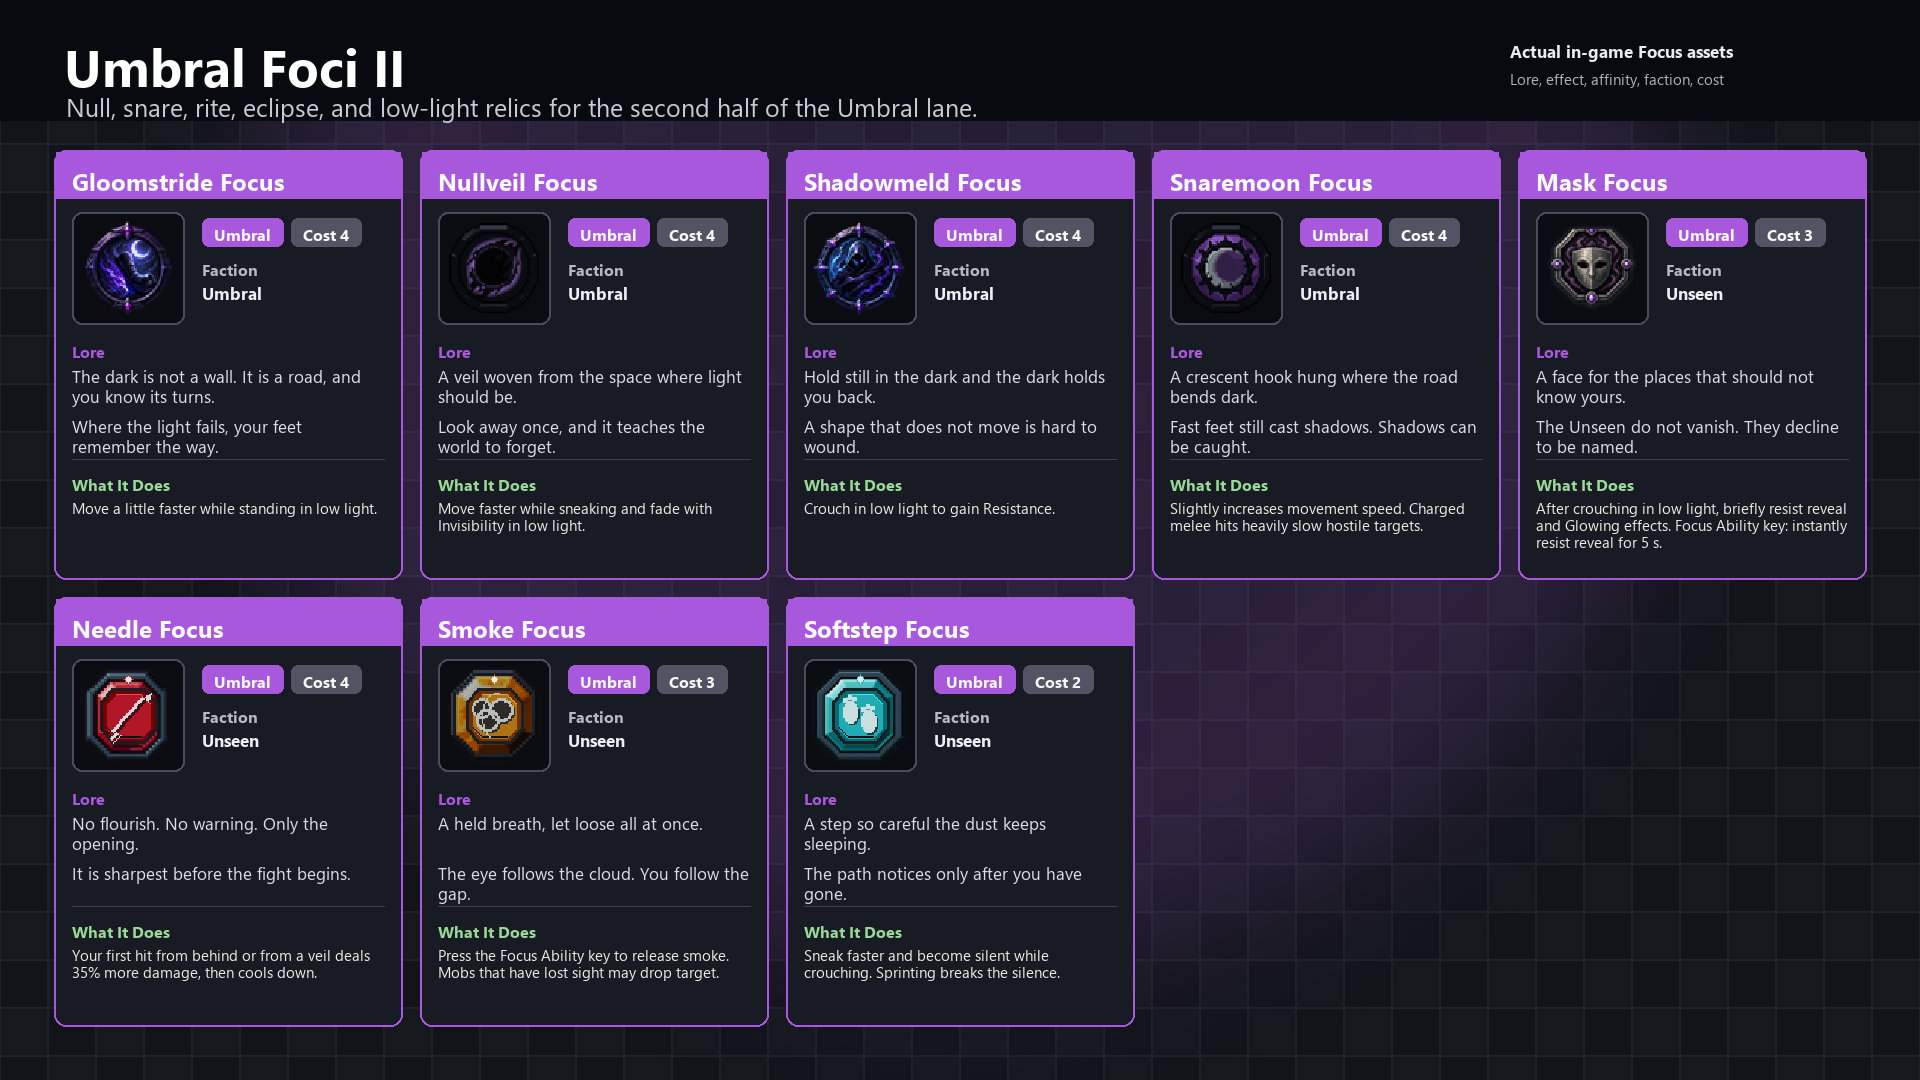
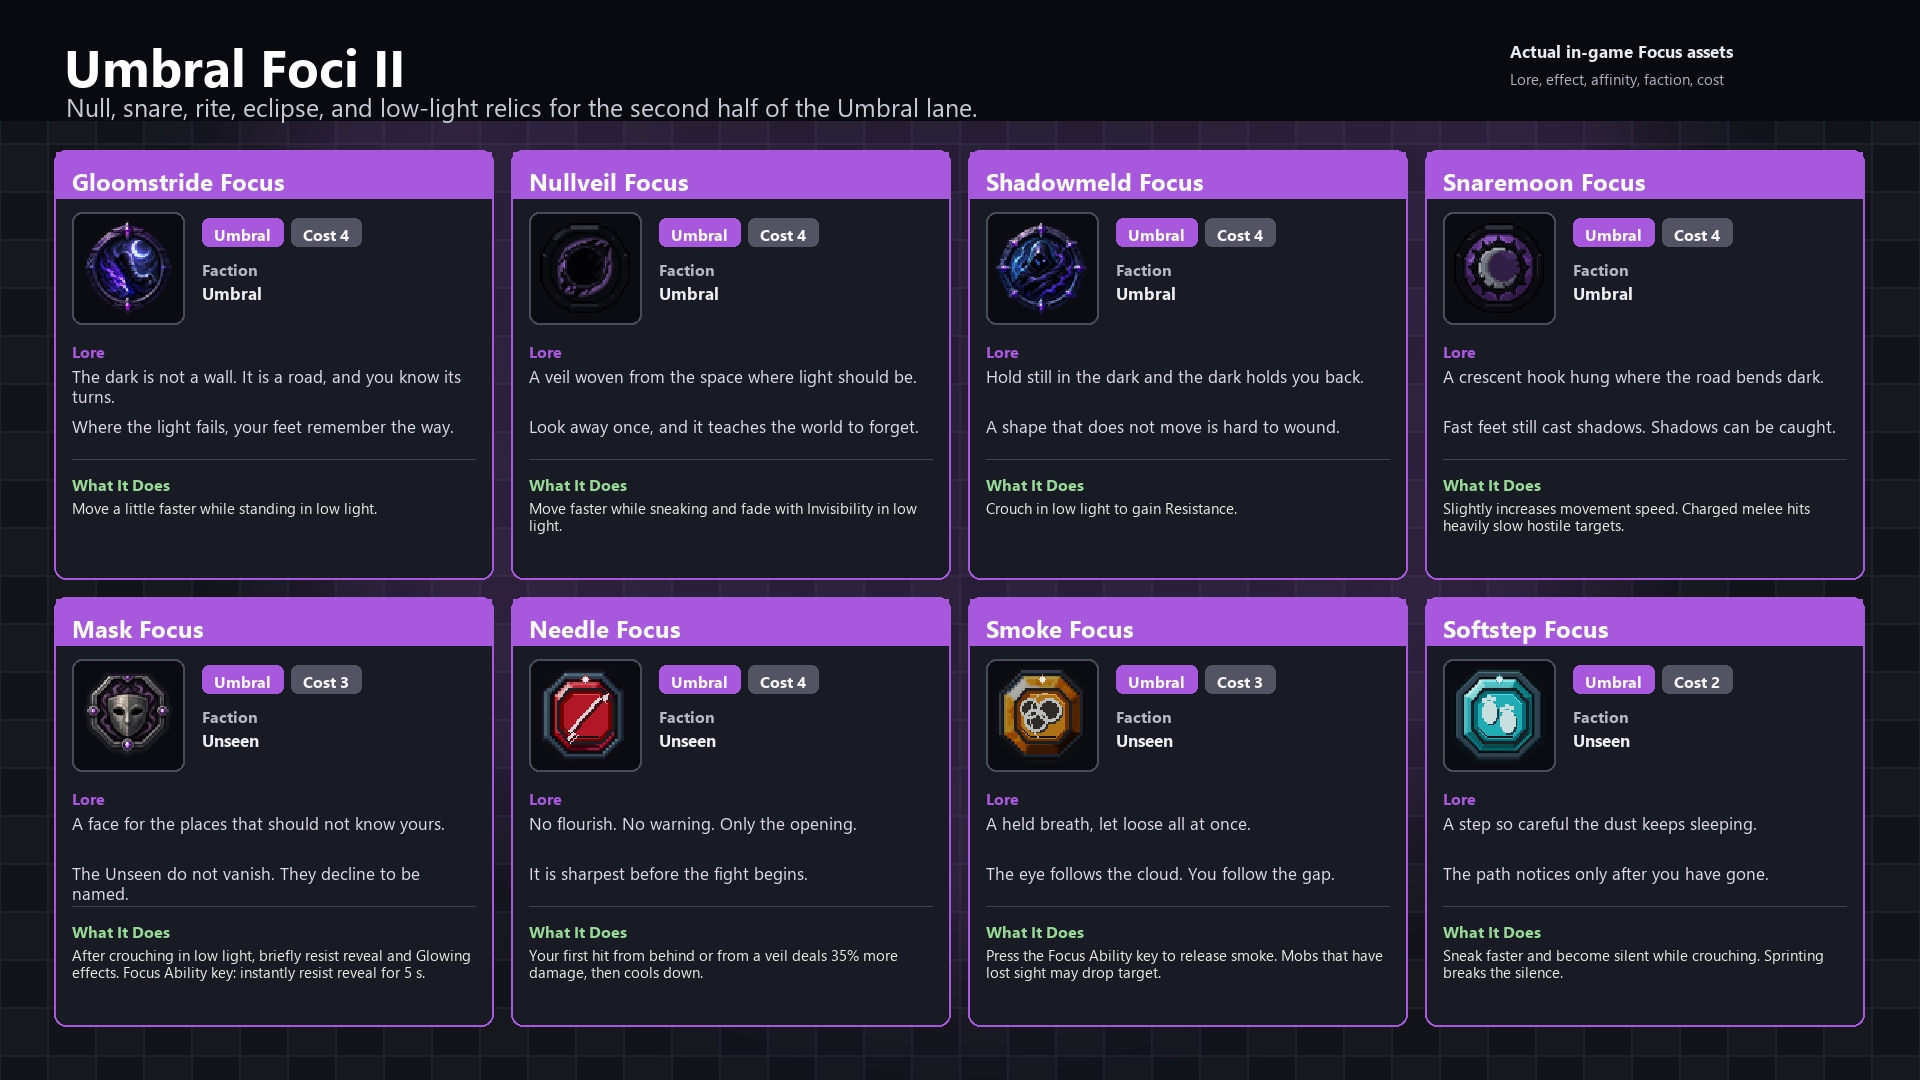
Fix gallery card fit

diff --git a/tools/generate_modrinth_gallery.py b/tools/generate_modrinth_gallery.py
@@ -129,6 +129,7 @@ def load_font(name: str, size: int) -> ImageFont.FreeTypeFont | ImageFont.ImageF
 FONT_TITLE = load_font("segoeuib.ttf", 52)
 FONT_SUBTITLE = load_font("segoeui.ttf", 25)
 FONT_CARD_TITLE = load_font("segoeuib.ttf", 24)
+FONT_ASSET_TITLE = load_font("segoeuib.ttf", 21)
 FONT_LABEL = load_font("segoeuib.ttf", 16)
 FONT_BODY = load_font("segoeui.ttf", 17)
 FONT_BODY_BOLD = load_font("segoeuib.ttf", 17)
@@ -136,6 +137,8 @@ FONT_SMALL = load_font("segoeui.ttf", 15)
 FONT_APEX_TITLE = load_font("segoeuib.ttf", 29)
 FONT_APEX_BODY = load_font("segoeui.ttf", 19)
 FONT_APEX_SMALL = load_font("segoeui.ttf", 16)
+
+MIN_FOCUS_CARD_HEIGHT = 360
 
 
 def clean_faction(faction: str) -> str:
@@ -259,6 +262,15 @@ def draw_text(draw: ImageDraw.ImageDraw, xy: tuple[int, int], text: str, font, f
 	return y
 
 
+def ellipsize(draw: ImageDraw.ImageDraw, text: str, font, max_width: int) -> str:
+	if draw.textlength(text, font=font) <= max_width:
+		return text
+	shortened = text
+	while shortened and draw.textlength(shortened + "...", font=font) > max_width:
+		shortened = shortened[:-1]
+	return shortened + "..." if shortened else "..."
+
+
 def make_background(accent: tuple[int, int, int]) -> Image.Image:
 	bg = Image.new("RGB", (WIDTH, HEIGHT), (13, 15, 21))
 	draw = ImageDraw.Draw(bg)
@@ -322,6 +334,16 @@ def draw_focus_card(canvas: Image.Image, focus: Focus, box: tuple[int, int, int,
 	draw_text(draw, (x0 + 18, effect_y + 24), focus.effect, FONT_SMALL, (232, 236, 224), x1 - x0 - 36, line_spacing=2, max_lines=3)
 
 
+def focus_panel_columns(count: int) -> int:
+	if count <= 5:
+		return max(count, 1)
+	if count <= 6:
+		return 3
+	if count <= 8:
+		return 4
+	return 5
+
+
 def panel_filename(title: str) -> str:
 	return "attuned-" + title.lower().replace(" ", "-").replace("/", "-") + ".png"
 
@@ -337,7 +359,7 @@ def render_panel(title: str, subtitle: str, foci: list[Focus]) -> Path:
 	draw.text((WIDTH - 410, 39), "Actual in-game Focus assets", font=FONT_BODY_BOLD, fill=(234, 235, 242))
 	draw.text((WIDTH - 410, 68), "Lore, effect, affinity, faction, cost", font=FONT_SMALL, fill=(174, 178, 190))
 
-	cols = 5
+	cols = focus_panel_columns(len(foci))
 	rows = math.ceil(len(foci) / cols)
 	margin_x = 54
 	gap_x = 18
@@ -345,6 +367,10 @@ def render_panel(title: str, subtitle: str, foci: list[Focus]) -> Path:
 	top = 150
 	card_w = (WIDTH - margin_x * 2 - gap_x * (cols - 1)) // cols
 	card_h = (HEIGHT - top - 54 - gap_y * (rows - 1)) // rows
+	if card_h < MIN_FOCUS_CARD_HEIGHT:
+		raise ValueError(
+			f"{title} would render {len(foci)} Foci with {card_h}px-tall cards; split the panel before generating."
+		)
 	for idx, focus in enumerate(foci):
 		col = idx % cols
 		row = idx // cols
@@ -401,16 +427,18 @@ def draw_gallery_asset_card(canvas: Image.Image, asset: GalleryAsset, box: tuple
 	x0, y0, x1, y1 = box
 	accent = (151, 217, 150) if asset.kind == "Item" else (105, 185, 235)
 	rounded_rectangle(draw, box, 12, (25, 27, 36, 235), outline=(*accent, 230), width=2)
-	draw.rectangle((x0 + 2, y0 + 2, x1 - 2, y0 + 48), fill=(*accent, 38))
-	draw.text((x0 + 18, y0 + 15), asset.name, font=FONT_CARD_TITLE, fill=(252, 252, 255))
+	draw.rectangle((x0 + 2, y0 + 2, x1 - 2, y0 + 42), fill=(*accent, 38))
+	title = ellipsize(draw, asset.name, FONT_ASSET_TITLE, x1 - x0 - 32)
+	draw.text((x0 + 16, y0 + 10), title, font=FONT_ASSET_TITLE, fill=(252, 252, 255))
 
-	icon_back = (x0 + 22, y0 + 72, x0 + 138, y0 + 188)
+	icon_back = (x0 + 18, y0 + 58, x0 + 106, y0 + 146)
 	rounded_rectangle(draw, icon_back, 10, (11, 12, 17, 255), outline=(73, 75, 89), width=2)
-	sprite = first_frame(asset.texture).resize((88, 88), Image.Resampling.NEAREST)
-	canvas.alpha_composite(sprite, (x0 + 36, y0 + 86))
+	sprite = first_frame(asset.texture).resize((72, 72), Image.Resampling.NEAREST)
+	canvas.alpha_composite(sprite, (x0 + 26, y0 + 66))
 
-	chip(draw, x0 + 156, y0 + 78, asset.kind, accent, text_fill=(16, 16, 18))
-	draw_text(draw, (x0 + 156, y0 + 122), asset.description, FONT_BODY, (226, 228, 236), x1 - x0 - 180, line_spacing=4, max_lines=4)
+	text_x = x0 + 124
+	chip(draw, text_x, y0 + 60, asset.kind, accent, text_fill=(16, 16, 18))
+	draw_text(draw, (text_x, y0 + 98), asset.description, FONT_SMALL, (226, 228, 236), x1 - text_x - 18, line_spacing=2, max_lines=2)
 
 
 def render_items_and_altars_panel(assets: list[GalleryAsset]) -> Path:
@@ -620,7 +648,8 @@ def main() -> None:
 
 	neutral = by_affinity["neutral"]
 	outputs.append(render_panel("Neutral Foci I", "Utility, exploration, farming, mining, and survival relics with no affinity lock.", neutral[:10]))
-	outputs.append(render_panel("Neutral Foci II", "Seafarers, Unseen, Verdant, travel, and mixed-build utility relics.", neutral[10:]))
+	outputs.append(render_panel("Neutral Foci II", "Wayfinding, offshore, revenant, and seafaring utility relics.", neutral[10:16]))
+	outputs.append(render_panel("Neutral Foci III", "Seafaring support, Unseen, and Verdant Choir utility relics.", neutral[16:]))
 	outputs.append(render_items_and_altars_panel(gallery_assets))
 
 	print("Generated Modrinth gallery panels:")

diff --git a/tools/verify_repository.py b/tools/verify_repository.py
@@ -45,6 +45,7 @@ EXPECTED_MODRINTH_GALLERY_PNGS = (
     "attuned-items-tools-and-altars.png",
     "attuned-neutral-foci-i.png",
     "attuned-neutral-foci-ii.png",
+    "attuned-neutral-foci-iii.png",
     "attuned-tide-foci.png",
     "attuned-umbral-foci-i.png",
     "attuned-umbral-foci-ii.png",

diff --git a/tests/test_modrinth_gallery_contract.py b/tests/test_modrinth_gallery_contract.py
@@ -33,6 +33,7 @@ class ModrinthGalleryContractTest(unittest.TestCase):
 			"Verdant Foci",
 			"Umbral Foci I",
 			"Umbral Foci II",
+			"Neutral Foci III",
 			"Items, Tools & Altars",
 		):
 			self.assertIn(panel, self.source)
